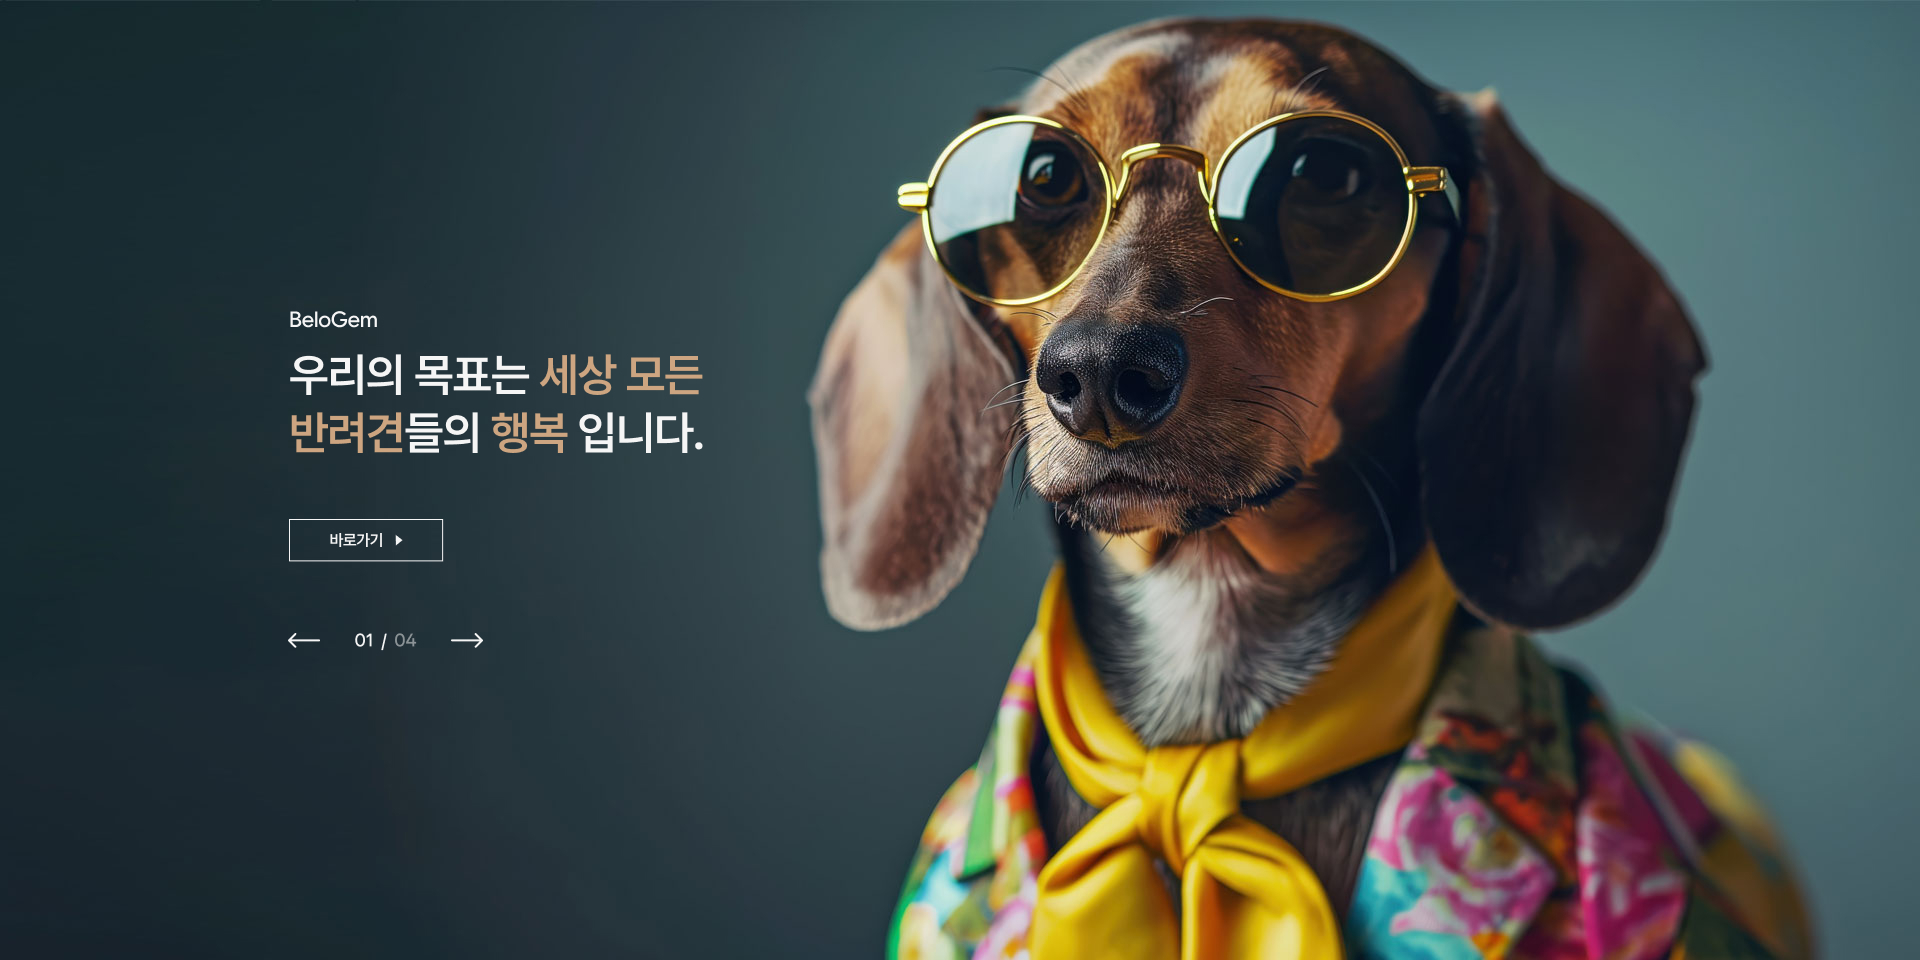
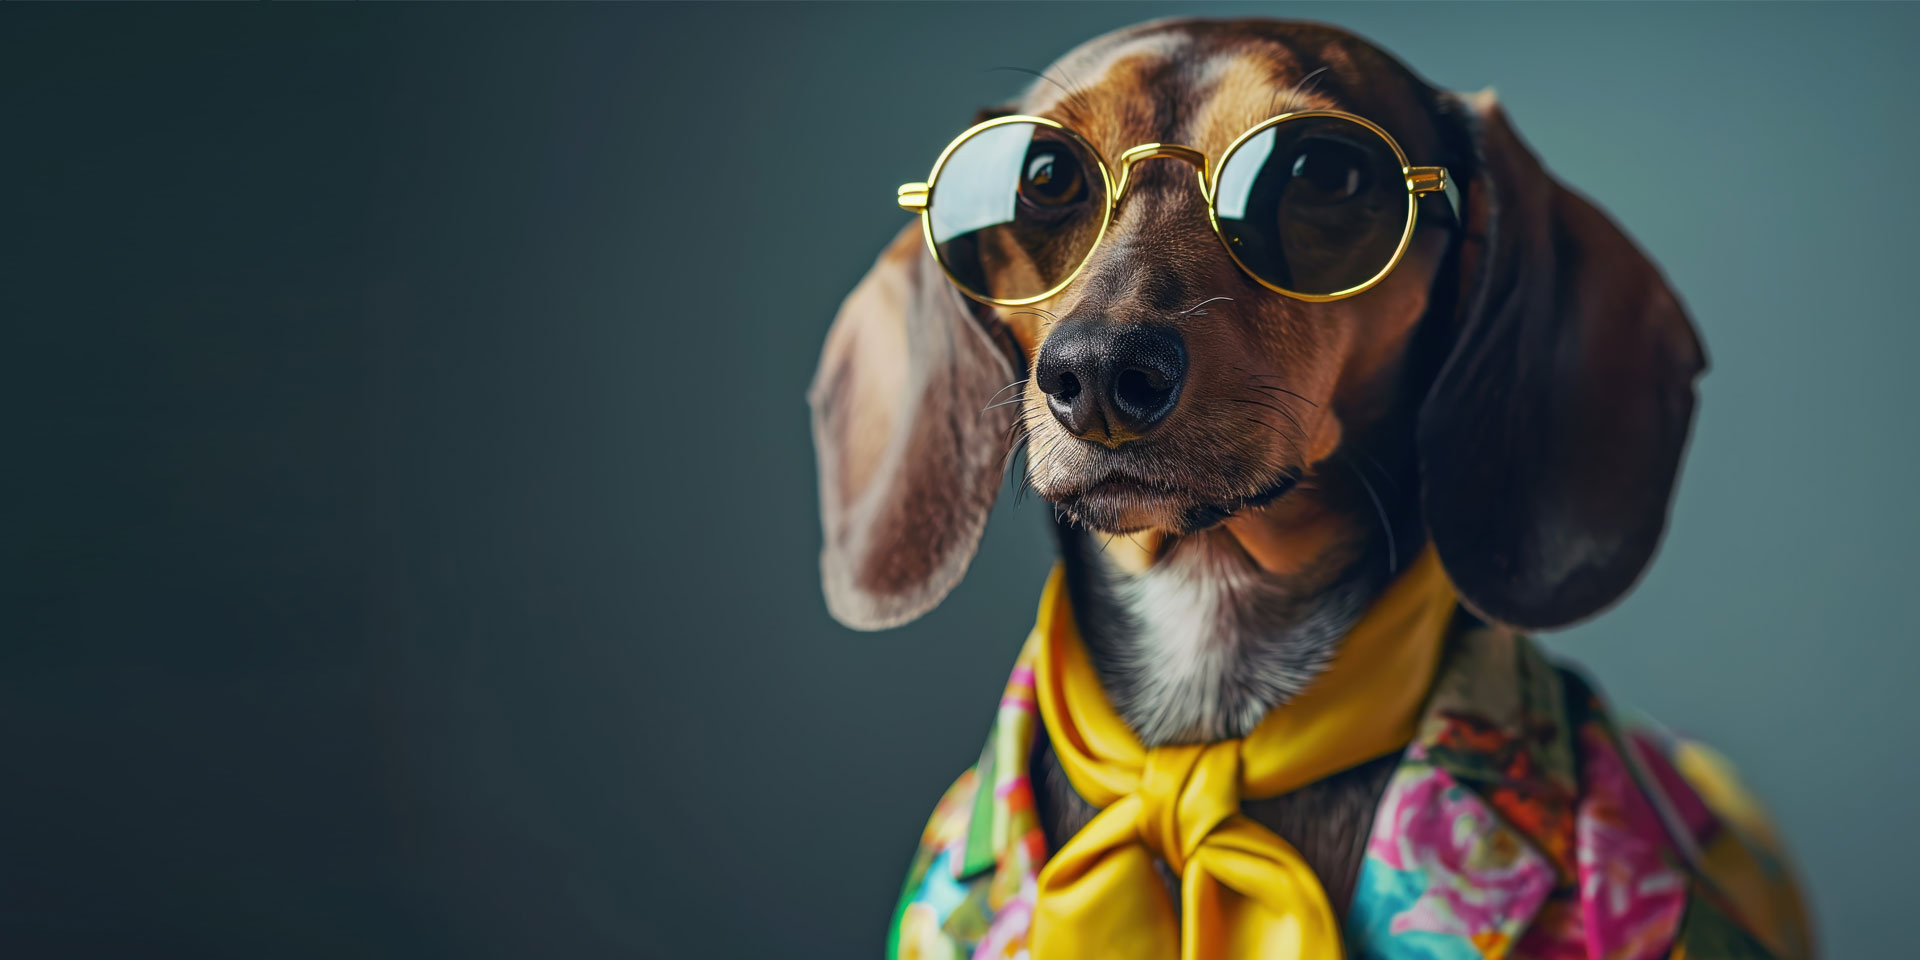
비주얼 버튼 작업 필요

diff --git a/index.html b/index.html
@@ -7,24 +7,33 @@ include_once("./layout/top.php"); ?>
   <!-- Swiper -->
   <div class="swiper mySwiper">
     <div class="swiper-wrapper">
-        <div class="swiper-slide1">
-            <p>BeloGam</p>
-            <p>우리의 목표는 <span>세상 모든<br>반려견</span>들의 <span>행복</span>입니다.</p>
+        <div class="swiper-slide slide1 d-flex f-d jcc ">
+            <div class="inner d-flex f-d w-100 ">
+                <p class="pc_sub_title01">BeloGam</p>
+                <p class="pc_title01_2line">우리의 목표는 <span>세상 모든<br>반려견</span>들의 <span>행복</span>입니다.</p>
+                <button>바로가기<img src="/images/icon/button/01.svg" alt="삼각형"></button>
+            </div>
         </div>
 
-        <div class="swiper-slide2">
-            <p>BeloGam</p>
-            <p>우리의 목표는 <span>세상 모든<br>반려견</span>들의 <span>행복</span>입니다.</p>
+        <div class="swiper-slide slide2">
+            <div>
+                <p>BeloGam</p>
+                <p>우리의 목표는 <span>세상 모든<br>반려견</span>들의 <span>행복</span>입니다.</p>
+            </div>
         </div>
 
-        <div class="swiper-slide3">
-            <p>BeloGam</p>
-            <p>우리의 목표는 <span>세상 모든<br>반려견</span>들의 <span>행복</span>입니다.</p>
+        <div class="swiper-slide slide3">
+            <div>
+                <p>BeloGam</p>
+                <p>우리의 목표는 <span>세상 모든<br>반려견</span>들의 <span>행복</span>입니다.</p>
+            </div>
         </div>
 
-        <div class="swiper-slide4">
-            <p>BeloGam</p>
-            <p>우리의 목표는 <span>세상 모든<br>반려견</span>들의 <span>행복</span>입니다.</p>
+        <div class="swiper-slide slide4">
+            <div>
+                <p>BeloGam</p>
+                <p>우리의 목표는 <span>세상 모든<br>반려견</span>들의 <span>행복</span>입니다.</p>
+            </div>
         </div>
     </div>
 

diff --git a/css/layout.scss b/css/layout.scss
@@ -2,44 +2,49 @@
 #hd{
     position: fixed;
     z-index: 1000;
-    height: 5.375rem;
     left: 0;
     right: 0;
-    top: 0; 
-    .gnb{
-        ul{
-            gap: 70px;
-            li{
-                a{
-                    color: var(--main, #CDA580);
-                    text-decoration: none;
-                    
+    top: 0;
+        height: 120px;
+        
+        .gnb{
+            ul{
+                gap: 70px;
+                li{
+                    a{
+                        color: var(--main, #CDA580);
+                        text-decoration: none;
+                        
+                    }
                 }
             }
         }
-    }
-    .util{
-        ul{
-            gap: 30px;
+        .util{
+            ul{
+                gap: 30px;
+            }
         }
     }
-}
 
 #visual{
-    height: 960px;
+
     .swiper-slide{
         background-size: cover;
+        height: 100vh;
         &.slide1{
-            background-image: url(images/img/main_visual01.jpg);
+            background-image: url(/images/img/main_visual01.jpg);
         }
         &.slide2{
-            background-image: url(images/img/main_visual02.jpg);
+            background-image: url(/images/img/main_visual02.jpg);
         }
         &.slide3{
-            background-image: url(images/img/main_visual03.jpg);
+            background-image: url(/images/img/main_visual03.jpg);
         }
         &.slide4{
-            background-image: url(images/img/main_visual04.jpg);
+            background-image: url(/images/img/main_visual04.jpg);
+        }
+        p{
+            color: var(--sub---light--gray, #f5f5f5);
         }
     }
-}
+}   

diff --git a/css/font.css b/css/font.css
@@ -1,30 +1,4 @@
-:root{
-/* Color styles */
---main: rgba(205, 165, 128, 1);
---sub---raisin--black: rgba(35, 35, 38, 1);
---sub---light--gray: rgba(245, 245, 245, 1);
 
-/* Text-size styles */
---pc--main--date-text03: 14px;
---pc--main--text01-2line: 16px;
---pc--main--date-text02: 16px;
---pc--main--sub-title-hover: 20px;
---pc--main--date-text01: 22px;
---pc--main--sub-title01-2line: 22px;
---pc--main--sub-title01: 22px;
---pc--main--sub-title02: 20px;
---pc--main--sub-text: 16px;
---pc--main--title01-2line: 46px;
---pc--main--title01: 46px;
---pc--main--title02: 34px;
---pc--main--button-text03: 18px;
---pc--main--button-text02: 16px;
---pc--main--button-text01: 16px;
---pc--main--f_menu02: 18px;
---pc--main--f_menu01: 18px;
---pc--main--menu_m: 18px;
---pc--main--menu_-l: 20px;
-}
 
 
 /*WANTED SANS*/
@@ -108,3 +82,4 @@
     src: url(https://hangeul.pstatic.net/hangeul_static/webfont/MaruBuri/MaruBuri-ExtraLight.eot);
     src: url(https://hangeul.pstatic.net/hangeul_static/webfont/MaruBuri/MaruBuri-ExtraLight.eot?#iefix) format("embedded-opentype"), url(https://hangeul.pstatic.net/hangeul_static/webfont/MaruBuri/MaruBuri-ExtraLight.woff2) format("woff2"), url(https://hangeul.pstatic.net/hangeul_static/webfont/MaruBuri/MaruBuri-ExtraLight.woff) format("woff"), url(https://hangeul.pstatic.net/hangeul_static/webfont/MaruBuri/MaruBuri-ExtraLight.ttf) format("truetype");
 }
+

diff --git a/css/common.css b/css/common.css
@@ -11,6 +11,34 @@ p {
     margin: 0;
 }
 
+:root{
+    /* Color styles */
+    --main: rgba(205, 165, 128, 1);
+    --sub---raisin--black: rgba(35, 35, 38, 1);
+    --sub---light--gray: rgba(245, 245, 245, 1);
+    
+    /* Text-size styles */
+    --pc--main--date-text03: 14px;
+    --pc--main--text01-2line: 16px;
+    --pc--main--date-text02: 16px;
+    --pc--main--sub-title-hover: 20px;
+    --pc--main--date-text01: 22px;
+    --pc--main--sub-title01-2line: 22px;
+    --pc--main--sub-title01: 22px;
+    --pc--main--sub-title02: 20px;
+    --pc--main--sub-text: 16px;
+    --pc--main--title01-2line: 46px;
+    --pc--main--title01: 46px;
+    --pc--main--title02: 34px;
+    --pc--main--button-text03: 18px;
+    --pc--main--button-text02: 16px;
+    --pc--main--button-text01: 16px;
+    --pc--main--f_menu02: 18px;
+    --pc--main--f_menu01: 18px;
+    --pc--main--menu_m: 18px;
+    --pc--main--menu_-l: 20px;
+    }
+
 
 /* 레이아웃 공통클래스 */
 .a {
@@ -22,6 +50,10 @@ p {
 }
 .outer{
     max-width: 1780px;
+    margin: 0 auto;
+}
+.inner{
+    max-width: 1342px;
     margin: 0 auto;
 }
 .rel {
@@ -75,7 +107,7 @@ p {
 
 /* 폰트 공통클래스 */
 .pc_menu_L{
-    font-family: 'MaruBuriBold';
+    font-family: 'MaruBuriSemiBold';
     font-style: normal;
     font-display: swap;
     font-size: var(--pc--main--menu_-l);

diff --git a/css/layout.min.css b/css/layout.min.css
@@ -1,1 +1,1 @@
-#hd{position:fixed;z-index:1000;height:5.375rem;left:0;right:0;top:0}#hd .gnb ul{gap:70px}#hd .gnb ul li a{color:var(--main, #CDA580);text-decoration:none}#hd .util ul{gap:30px}#visual{height:960px}#visual .swiper-slide{background-size:cover}#visual .swiper-slide.slide1{background-image:url(images/img/main_visual01.jpg)}#visual .swiper-slide.slide2{background-image:url(images/img/main_visual02.jpg)}#visual .swiper-slide.slide3{background-image:url(images/img/main_visual03.jpg)}#visual .swiper-slide.slide4{background-image:url(images/img/main_visual04.jpg)}
+#hd{position:fixed;z-index:1000;left:0;right:0;top:0;height:120px}#hd .gnb ul{gap:70px}#hd .gnb ul li a{color:var(--main, #CDA580);text-decoration:none}#hd .util ul{gap:30px}#visual .swiper-slide{background-size:cover;height:100vh}#visual .swiper-slide.slide1{background-image:url(/images/img/main_visual01.jpg)}#visual .swiper-slide.slide2{background-image:url(/images/img/main_visual02.jpg)}#visual .swiper-slide.slide3{background-image:url(/images/img/main_visual03.jpg)}#visual .swiper-slide.slide4{background-image:url(/images/img/main_visual04.jpg)}#visual .swiper-slide p{color:var(--sub---light--gray, #f5f5f5)}

diff --git a/css/layout.css b/css/layout.css
@@ -1,10 +1,10 @@
 #hd {
   position: fixed;
   z-index: 1000;
-  height: 5.375rem;
   left: 0;
   right: 0;
   top: 0;
+  height: 120px;
 }
 #hd .gnb ul {
   gap: 70px;
@@ -17,21 +17,22 @@
   gap: 30px;
 }
 
-#visual {
-  height: 960px;
-}
 #visual .swiper-slide {
   background-size: cover;
+  height: 100vh;
 }
 #visual .swiper-slide.slide1 {
-  background-image: url(images/img/main_visual01.jpg);
+  background-image: url(/images/img/main_visual01.jpg);
 }
 #visual .swiper-slide.slide2 {
-  background-image: url(images/img/main_visual02.jpg);
+  background-image: url(/images/img/main_visual02.jpg);
 }
 #visual .swiper-slide.slide3 {
-  background-image: url(images/img/main_visual03.jpg);
+  background-image: url(/images/img/main_visual03.jpg);
 }
 #visual .swiper-slide.slide4 {
-  background-image: url(images/img/main_visual04.jpg);
+  background-image: url(/images/img/main_visual04.jpg);
+}
+#visual .swiper-slide p {
+  color: var(--sub---light--gray, #f5f5f5);
 }

diff --git a/layout/top.php b/layout/top.php
@@ -56,7 +56,7 @@
             <a href="" class="text02-1 d-flex aic jcc">1초만에 회원가입하고 5,000원 할인쿠폰 받기~!</a>
         </div>
 
-        <div class="logo d-flex jcb aic outer">
+        <div class="d-flex jcb aic outer">
             <h1>
                 <a href="/"><img src="/images/icon/logo/logo01.svg" alt="logo"></a>
             </h1>
